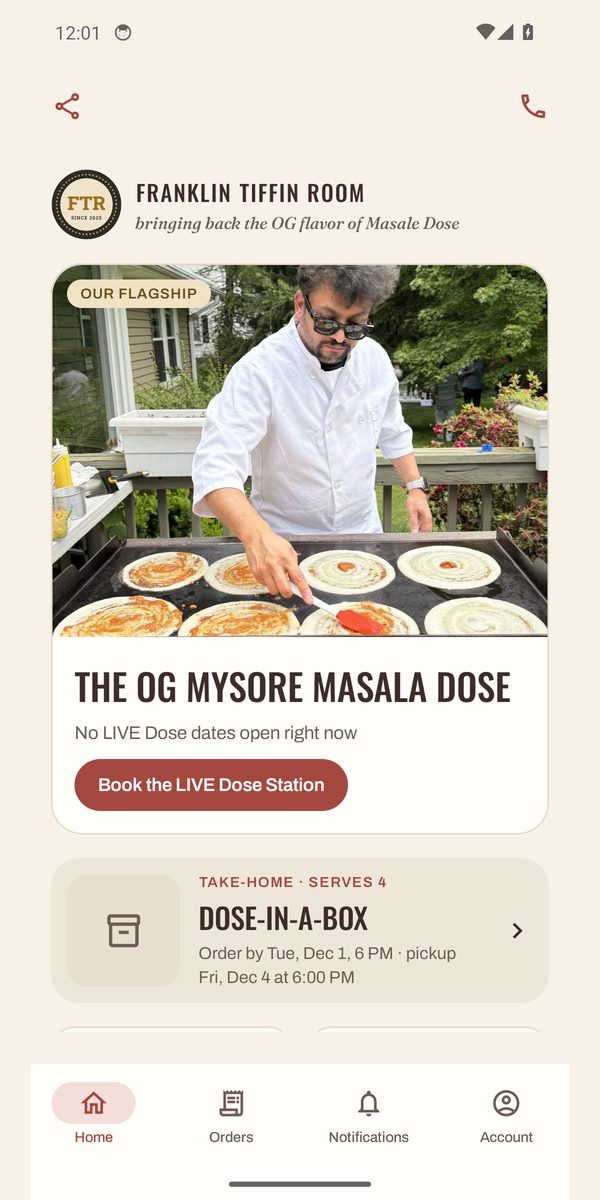
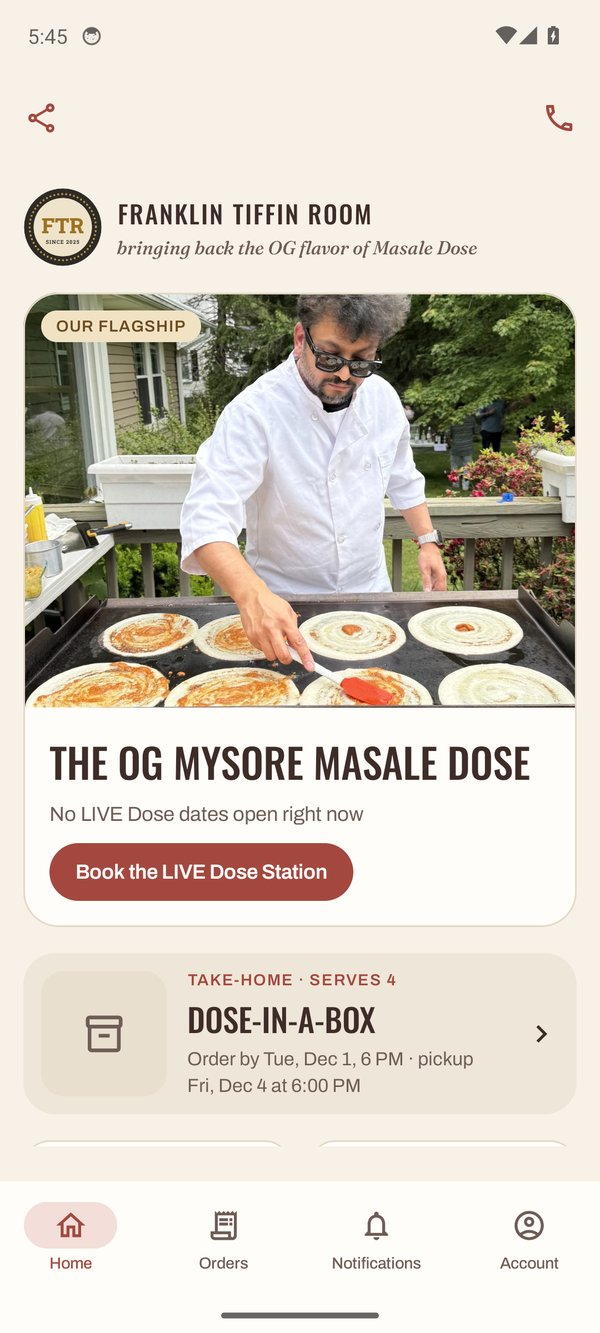
New app screenshot with Masale Dose spelling
Claude-Session: https://claude.ai/code/session_019CVbRadH9481r7zeA5DVa4

diff --git a/index.html b/index.html
@@ -365,7 +365,7 @@
           <a class="store" href="https://play.google.com/store/apps/details?id=com.franklintiffinroom.app"><svg width="22" height="22" viewBox="0 0 24 24" fill="none" stroke="currentColor" stroke-width="1.8"><rect x="5" y="3" width="14" height="19" rx="2.6"/></svg><span><small>Get it for Android</small>Google Play</span></a>
         </div>
       </div>
-      <div class="phone"><img src="/img/app-home.jpg" alt="The FTR-DOSE app home screen" width="600" height="1200" loading="lazy"></div>
+      <div class="phone"><img src="/img/app-home.jpg" alt="The FTR-DOSE app home screen" width="600" height="1333" loading="lazy"></div>
     </div>
   </div>
 </section>
